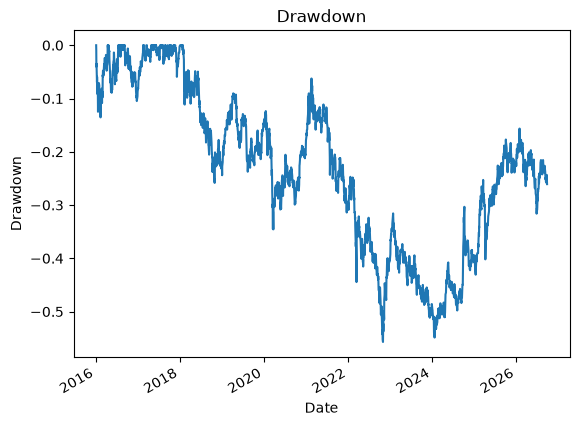
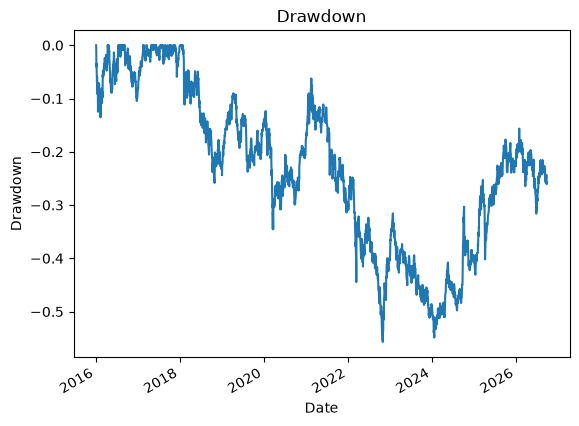
Daily automated notebook update: 2026-09-29

diff --git a/README.md b/README.md
@@ -33,12 +33,12 @@ df, returns
      2016-01-07    20333.339844
      2016-01-08    20453.710938
                        ...     
-     2026-09-21    25042.710938
      2026-09-22    25087.750000
      2026-09-23    24834.119141
      2026-09-24    24761.130859
      2026-09-25    24510.089844
-     Name: ^HSI, Length: 2640, dtype: float64,
+     2026-09-28    24642.509766
+     Name: ^HSI, Length: 2641, dtype: float64,
      Date
      2016-01-05   -0.006489
      2016-01-06   -0.009812
@@ -46,12 +46,12 @@ df, returns
      2016-01-08    0.005920
      2016-01-11   -0.027634
                      ...   
-     2026-09-21    0.011795
      2026-09-22    0.001798
      2026-09-23   -0.010110
      2026-09-24   -0.002939
      2026-09-25   -0.010139
-     Name: ^HSI, Length: 2639, dtype: float64)
+     2026-09-28    0.005403
+     Name: ^HSI, Length: 2640, dtype: float64)
 
 
 
@@ -100,11 +100,11 @@ summary
   <tbody>
     <tr>
       <th>0</th>
-      <td>0.000148</td>
-      <td>0.013756</td>
+      <td>0.00015</td>
+      <td>0.013754</td>
       <td>-0.132233</td>
       <td>0.090818</td>
-      <td>2639</td>
+      <td>2640</td>
     </tr>
   </tbody>
 </table>
@@ -176,13 +176,13 @@ pd.DataFrame({
       <th>0</th>
       <td>Historical</td>
       <td>0.95</td>
-      <td>-0.020973</td>
+      <td>-0.020969</td>
     </tr>
     <tr>
       <th>1</th>
       <td>Historical</td>
       <td>0.99</td>
-      <td>-0.034027</td>
+      <td>-0.034024</td>
     </tr>
   </tbody>
 </table>
@@ -238,13 +238,13 @@ pd.DataFrame({
       <th>0</th>
       <td>Parametric (Normal)</td>
       <td>0.95</td>
-      <td>-0.022480</td>
+      <td>-0.022474</td>
     </tr>
     <tr>
       <th>1</th>
       <td>Parametric (Normal)</td>
       <td>0.99</td>
-      <td>-0.031854</td>
+      <td>-0.031847</td>
     </tr>
   </tbody>
 </table>
@@ -289,13 +289,13 @@ compare_var
   <tbody>
     <tr>
       <th>0</th>
-      <td>-0.020973</td>
-      <td>-0.022480</td>
+      <td>-0.020969</td>
+      <td>-0.022474</td>
     </tr>
     <tr>
       <th>1</th>
-      <td>-0.034027</td>
-      <td>-0.031854</td>
+      <td>-0.034024</td>
+      <td>-0.031847</td>
     </tr>
   </tbody>
 </table>
@@ -355,11 +355,11 @@ pd.DataFrame({
     <tr>
       <th>0</th>
       <td>Historical 95% (constant)</td>
-      <td>-0.020973</td>
-      <td>0.050019</td>
+      <td>-0.020969</td>
+      <td>0.05</td>
       <td>0.05</td>
       <td>132</td>
-      <td>2639</td>
+      <td>2640</td>
     </tr>
   </tbody>
 </table>
@@ -417,11 +417,11 @@ pd.DataFrame({
     <tr>
       <th>0</th>
       <td>Historical 99% (constant)</td>
-      <td>-0.034027</td>
-      <td>0.010231</td>
+      <td>-0.034024</td>
+      <td>0.010227</td>
       <td>0.01</td>
       <td>27</td>
-      <td>2639</td>
+      <td>2640</td>
     </tr>
   </tbody>
 </table>
@@ -479,11 +479,11 @@ pd.DataFrame({
     <tr>
       <th>0</th>
       <td>Parametric 95% (constant)</td>
-      <td>-0.02248</td>
-      <td>0.037893</td>
+      <td>-0.022474</td>
+      <td>0.037879</td>
       <td>0.05</td>
       <td>100</td>
-      <td>2639</td>
+      <td>2640</td>
     </tr>
   </tbody>
 </table>
@@ -541,11 +541,11 @@ pd.DataFrame({
     <tr>
       <th>0</th>
       <td>Parametric 99% (constant)</td>
-      <td>-0.031854</td>
-      <td>0.012505</td>
+      <td>-0.031847</td>
+      <td>0.0125</td>
       <td>0.01</td>
       <td>33</td>
-      <td>2639</td>
+      <td>2640</td>
     </tr>
   </tbody>
 </table>
@@ -603,7 +603,7 @@ tail_stats
     <tr>
       <th>0</th>
       <td>0.01</td>
-      <td>-0.034027</td>
+      <td>-0.034024</td>
       <td>-0.04744</td>
       <td>-0.132233</td>
       <td>27</td>
@@ -917,12 +917,12 @@ report
     <tr>
       <th>0</th>
       <td>Historical VaR 95%</td>
-      <td>-20972.677332</td>
+      <td>-20968.791333</td>
     </tr>
     <tr>
       <th>1</th>
       <td>Parametric VaR 95% (Assuming Normal)</td>
-      <td>-22479.601025</td>
+      <td>-22473.948483</td>
     </tr>
     <tr>
       <th>2</th>
